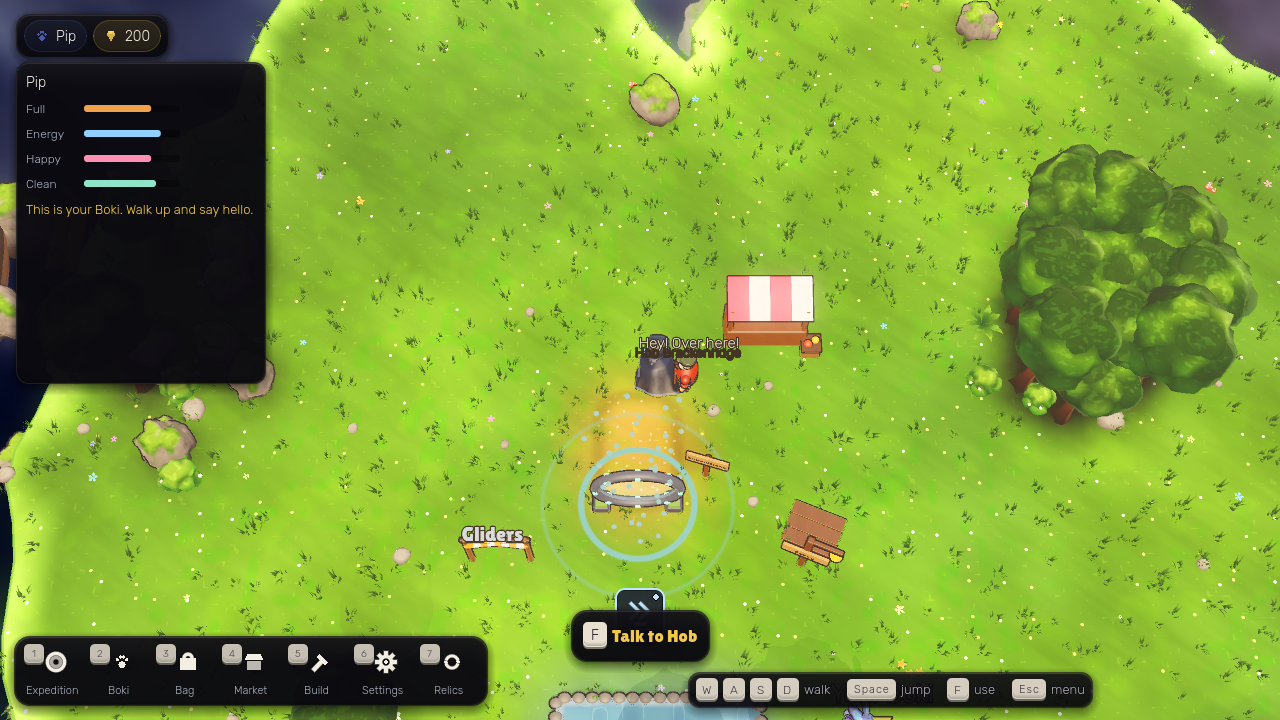
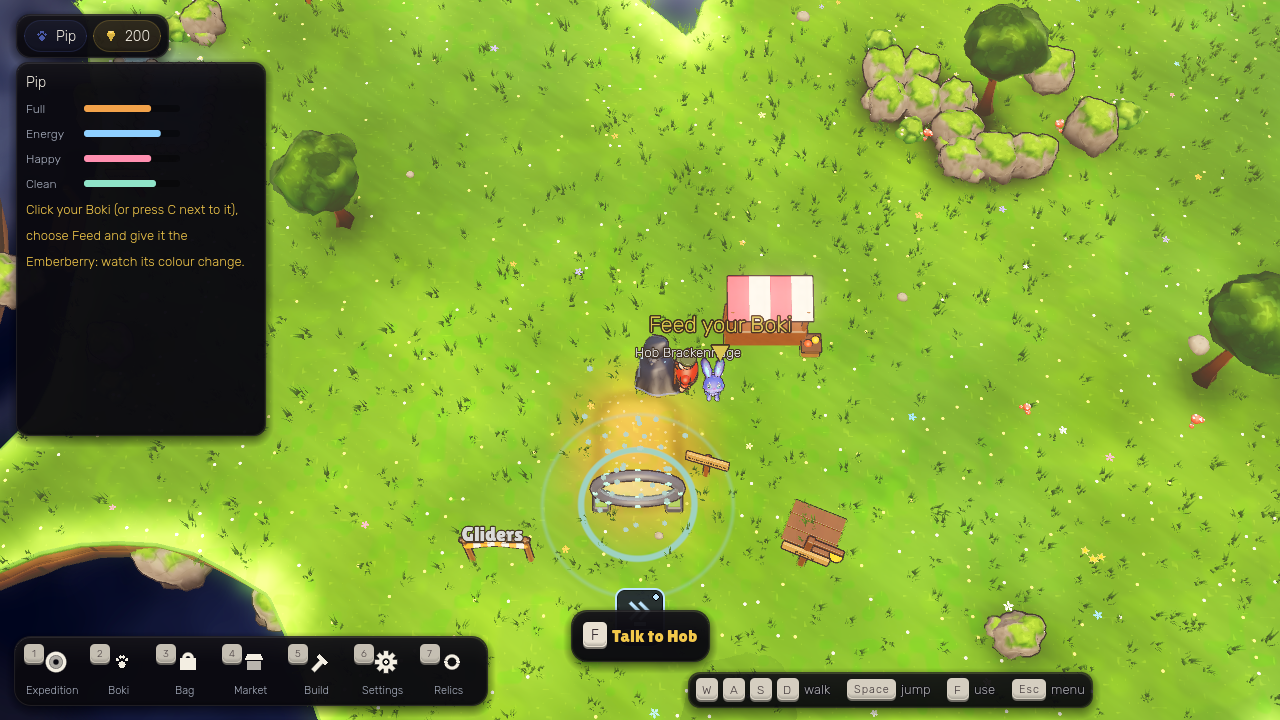
ONBOARDING_GARDEN.md: after shots

diff --git a/docs/ONBOARDING_GARDEN.md b/docs/ONBOARDING_GARDEN.md
@@ -52,8 +52,9 @@ step so it redraws). Screen (fixed): `docs/shots/garden_fresh/before_02_hob_call
 
 ### 4. High, fixed: two leads at arrival
 Once the Welcome card closed, the camera swung to Hob, who shouted "Hey! Over here!" while step 1 said "Your Boki".
-Screen (before the fix): `docs/shots/garden_fresh/before_02_hob_calls.png`, "Hey! Over here!" over Hob. Fix: `HobTalk._intro` skips the camera swing and `FarmHob._call_out` skips the shout every 9 s in base mode (the post-fix shot `after_02_boki_only.png` was taken before the shout fix);
-the run asserts it. The Boki is the only lead.
+Screen (before the fix): `docs/shots/garden_fresh/before_02_hob_calls.png`, "Hey! Over here!" over Hob. Fix: `HobTalk._intro` skips the camera swing and `FarmHob._call_out` skips the shout every 9 s in base mode;
+the run asserts it. After: `docs/shots/garden_fresh/after_02_boki_only.png` (card and marker both say feed your Boki, no shout);
+`after_12_portal_line.png` is the last step's line. The Boki is the only lead.
 
 ### 5. Medium, fixed: the last step names a button that does not exist
 The `out` step said "press Stay to keep playing", but the Stay and Skip buttons live in the hint box that base mode
